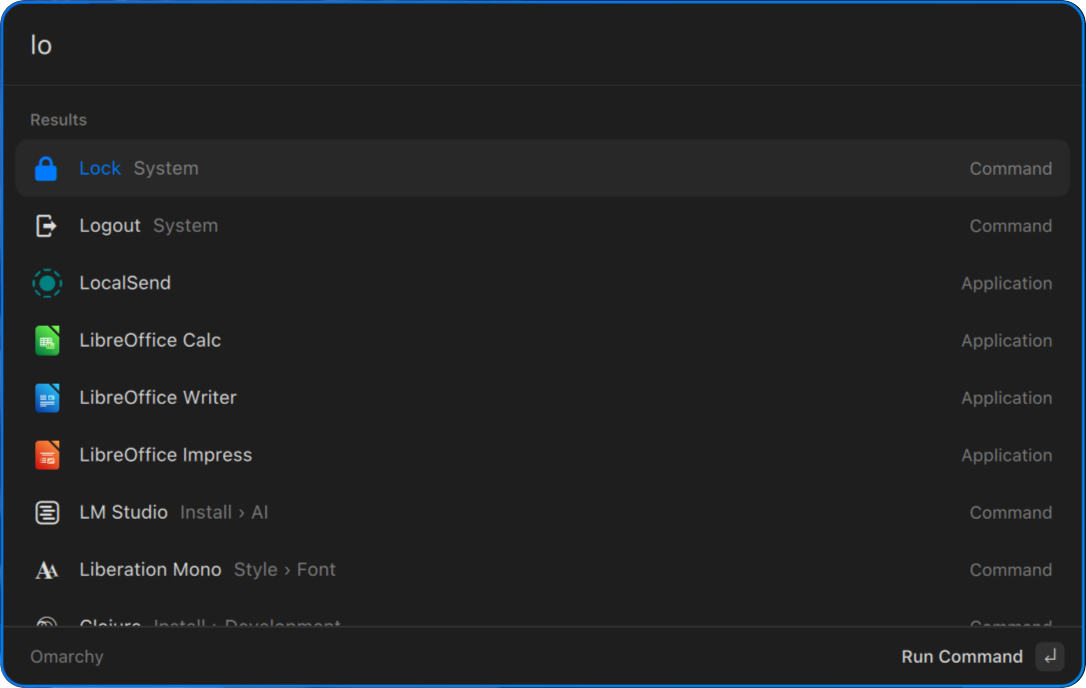
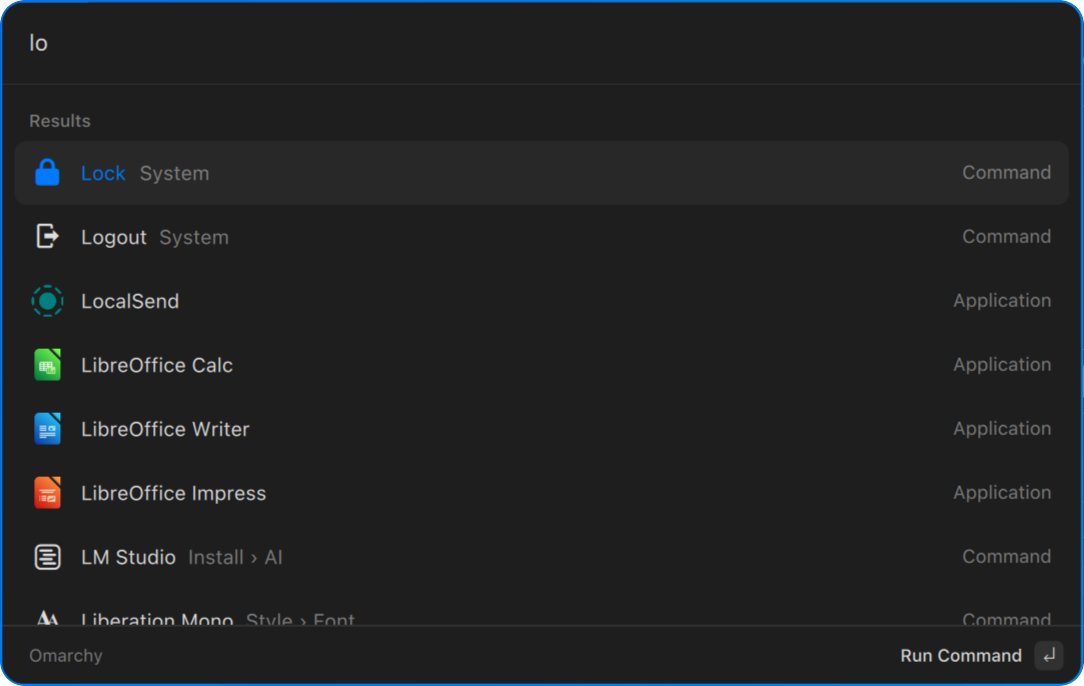
Search field at the switcher's app-name size; results one step up
The search field drops from heading x 1.2 to heading: the size of the
window switcher's app names and the Omarchy launcher's labels (20 -> 17
px at base-size 13).

The result rows move one step up Omarchy's type scale: the name and its
context subtitle -> title, the kind and the checkmark body -> subtitle,
the submenu chevron subtitle -> title, section headers bodySmall -> body.
Their geometry grows with them: rows 40 -> 44 units, header rows 30 ->
32, icons 20 -> 22, the icon slot 24 -> 26. Glyph icons follow the icon
box at nine tenths, the share iconLarge had of the old 20, as no type
token sits between iconLarge and display.

preview.png is retaken at the new sizes: the card alone, cropped to its
border, its corners cut at Hyprland's rounding.

diff --git a/Supermenu.qml b/Supermenu.qml
@@ -1060,9 +1060,13 @@ Item {
   readonly property int searchHeight: Style.space(56)
   readonly property int footerHeight: Style.space(40)
   readonly property int listInset: Style.space(8)
-  readonly property int rowHeight: Style.space(40)
-  readonly property int headerRowHeight: Style.space(30)
-  readonly property int iconSize: Style.space(20)
+  readonly property int rowHeight: Style.space(44)
+  readonly property int headerRowHeight: Style.space(32)
+  readonly property int iconSize: Style.space(22)
+  // Glyph icons at the share of the icon box iconLarge had when the box was
+  // 20, so they keep pace with app icons; there is no type token between
+  // iconLarge and display.
+  readonly property int glyphSize: Math.round(root.iconSize * 0.9)
   // Concentric with the card: the row's corner sits listInset inside the
   // card's, so its radius is the card's less that inset.
   readonly property int rowRadius: Math.max(Style.space(4), Style.cornerRadius - root.listInset)
@@ -1170,7 +1174,8 @@ Item {
             selectionColor: Util.alpha(root.selectedText, 0.35)
             selectedTextColor: root.foreground
             font.family: root.fontFamily
-            font.pixelSize: Math.round(Style.font.heading * 1.2)
+            // The switcher's app names and the Omarchy launcher's labels.
+            font.pixelSize: Style.font.heading
 
             onTextChanged: root.rebuildRows(false)
             onActiveFocusChanged: root.cardHasKeyboard()
@@ -1254,7 +1259,7 @@ Item {
               text: row.isHeader ? row.modelData.title : ""
               color: root.muted
               font.family: root.fontFamily
-              font.pixelSize: Style.font.bodySmall
+              font.pixelSize: Style.font.body
               font.weight: Font.Medium
             }
 
@@ -1270,7 +1275,7 @@ Item {
                 anchors.left: parent.left
                 anchors.leftMargin: Style.space(10)
                 anchors.verticalCenter: parent.verticalCenter
-                width: Style.space(24)
+                width: Style.space(26)
                 height: width
 
                 Image {
@@ -1296,7 +1301,7 @@ Item {
                   text: row.modelData.icon || (row.isMenu ? "" : "")
                   color: row.ink
                   font.family: row.modelData.iconFont || root.fontFamily
-                  font.pixelSize: Style.font.iconLarge
+                  font.pixelSize: root.glyphSize
                 }
               }
 
@@ -1318,7 +1323,7 @@ Item {
                   text: row.isHeader ? "" : row.modelData.label
                   color: row.ink
                   font.family: root.fontFamily
-                  font.pixelSize: Style.font.subtitle
+                  font.pixelSize: Style.font.title
                   elide: Text.ElideRight
                 }
 
@@ -1332,7 +1337,7 @@ Item {
                   text: row.isHeader ? "" : row.modelData.subtitle
                   color: root.muted
                   font.family: root.fontFamily
-                  font.pixelSize: Style.font.subtitle
+                  font.pixelSize: Style.font.title
                   elide: Text.ElideRight
                 }
               }
@@ -1351,7 +1356,7 @@ Item {
                   text: "✓"
                   color: root.selectedText
                   font.family: root.fontFamily
-                  font.pixelSize: Style.font.body
+                  font.pixelSize: Style.font.subtitle
                 }
 
                 Text {
@@ -1360,7 +1365,7 @@ Item {
                   text: row.isHeader ? "" : row.modelData.accessory
                   color: root.muted
                   font.family: root.fontFamily
-                  font.pixelSize: Style.font.body
+                  font.pixelSize: Style.font.subtitle
                 }
 
                 Text {
@@ -1370,7 +1375,7 @@ Item {
                   text: "›"
                   color: root.muted
                   font.family: root.fontFamily
-                  font.pixelSize: Style.font.subtitle
+                  font.pixelSize: Style.font.title
                 }
               }
             }
